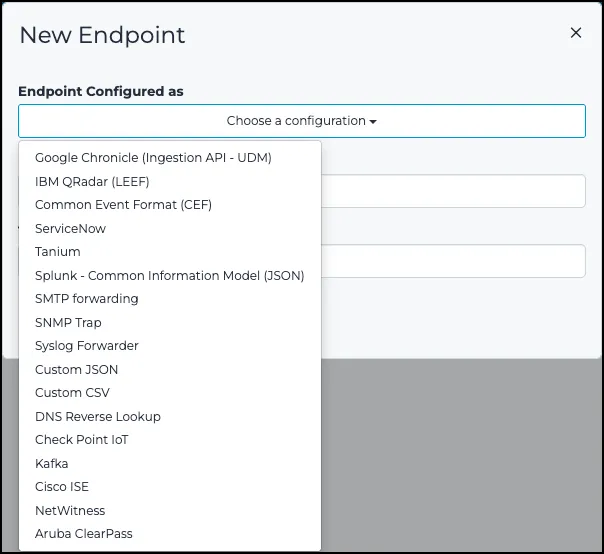
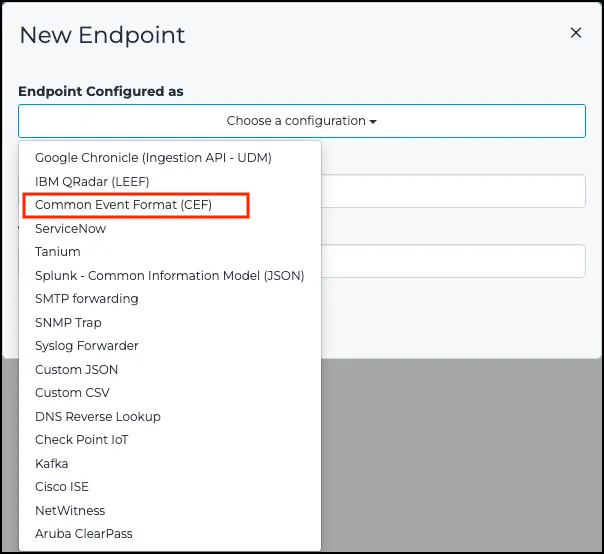
fix(Nozomi): add more details in the configuration of the Nozomi Central Management Console

Changed region(s): [[0.0298, 0.3375, 0.4172, 0.3989]]

diff --git a/docs/integration/categories/endpoint/nozomi_cmc.md b/docs/integration/categories/endpoint/nozomi_cmc.md
@@ -9,36 +9,74 @@ industrial networks. It enables users to monitor, configure, and respond to thre
 visibility and control over operational technology environments. With its user-friendly interface and powerful 
 analytics, the console simplifies security operations and strengthens defense against cyber risks.
 
-- **Supported environment**: On prem
-- **Detection based on**: Alerts, Audit
+- **Supported environment**: On Prem
+- **Detection based on**: Alerts, Telemetry
 - **Supported application or feature**:
     - Alerts
     - Health
     - Audit
 
-## Configure
+## Specification
 
-1. In the top navigation bar, select `settings`
-2. In the `Settings` section, select `Data integration`.
-3. In the top right section, select `Add`.
-4. From the `Choose a configuration` dropdown, select CEF.
+### Prerequisites
+
+- **Resource**:
+    - Self-managed syslog forwarder
+
+- **Network**:
+    - **On Premise**: Outbound traffic allowed
+
+- **Permissions**:
+    - Administrator access to the Central Management Console
+    - Root access to the Linux server with the syslog forwarder
+
+### Transport Protocol/Method
+
+- **Indirect Syslog** for On Premise
+
+### Logs details
+
+- **Supported functionalities**: See section [Overview](#overview)
+- **Supported type(s) of structure**: CEF
+- **Supported verbosity level**: Alert, Informational
+
+!!! Note
+    This is a description of the log level based on the taxonomy of the [RFC5424](https://datatracker.ietf.org/doc/html/rfc5424) for standardization purpose. Please adapt to the wording used by the editor.
+
+## Step-by-Step Configuration Procedure
+
+To Enable the CEF forwarding:
+
+1. Log in the Nozomi Central Management Console.
+2. Click `Administration`.
+
+  <img width="100%" alt="Configuration" src="/assets/integration/cloud_and_saas/nozomi_cmc/administration.png">
+
+3. Go to `Settings` > `Data integration`.
+4. Click `+ Add`.
+
+  <img width="100%" alt="Configuration" src="/assets/integration/cloud_and_saas/nozomi_cmc/data_integration.png">
+
+5. From the `Choose a configuration` dropdown, select CEF.
 
   <img width="100%" alt="Configuration" src="/assets/integration/cloud_and_saas/nozomi_cmc/configuration.png">
 
-5. Enter the necessary details and enable whichever log types you prefer.
+6. Type a description.
+7. In `To URI`, type `tcp://` following by the address of the log concentrator and the port for the intake
+8. Check `Enable sending Alerts`
+9. Check `Enable sending Audit Logs`
+10. Check `Enable sending Health Logs`
 
   <img width="100%" alt="Details" src="/assets/integration/cloud_and_saas/nozomi_cmc/details.png">
 
 
-### Create your intake
+### Instruction on Sekoia
 
-Go to the [intake page](https://app.sekoia.io/operations/intakes) and create a new intake from the `Nozomi CMC`.
+{!_shared_content/integration/intake_configuration.md!}
 
-
-#### Enjoy your events on the [Events page](https://app.sekoia.io/operations/events)
+{!_shared_content/integration/forwarder_configuration.md!}
 
 {!_shared_content/operations_center/integrations/generated/baf03007-4fbc-427e-a966-fa50cbe77856_sample.md!}
-
 
 {!_shared_content/integration/detection_section.md!}
 
